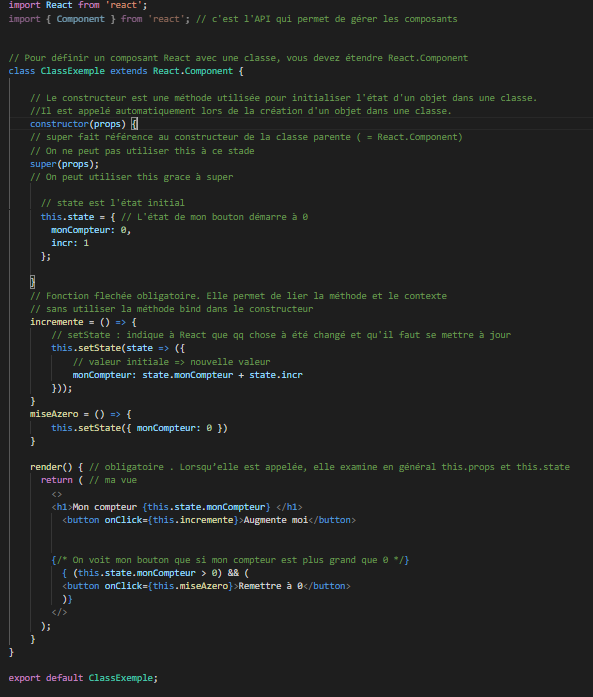
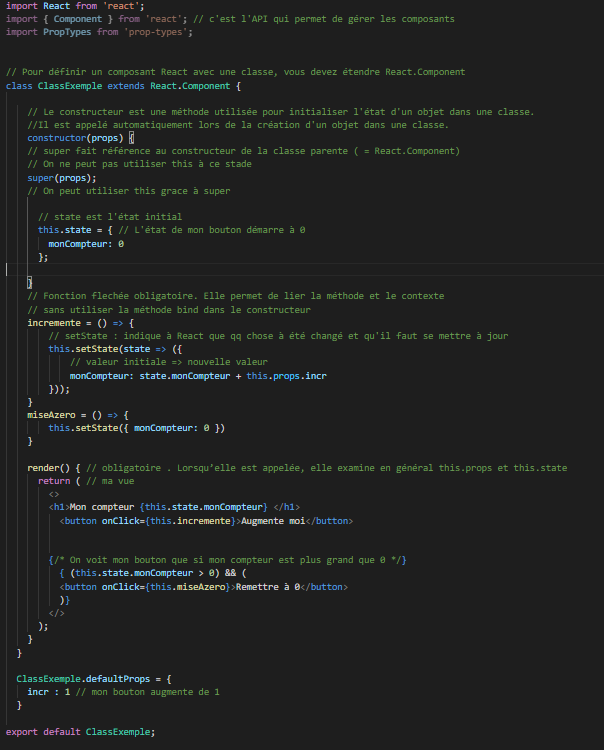
upgrade

diff --git a/09.Hook vs Class.md b/09.Hook vs Class.md
@@ -67,8 +67,7 @@ class ClassExemple extends React.Component {
 
       // state est l'état initial
       this.state = { // L'état de mon bouton démarre à 0
-        monCompteur: 0,
-        incr: 1
+        monCompteur: 0 
       };
 
     }
@@ -78,7 +77,7 @@ class ClassExemple extends React.Component {
         // setState : indique à React que qq chose à été changé et qu'il faut se mettre à jour
         this.setState(state => ({
             // valeur initiale => nouvelle valeur
-            monCompteur: state.monCompteur + state.incr
+            monCompteur: state.monCompteur + this.props.incr
         }));
     }
     miseAzero = () => {
@@ -99,7 +98,11 @@ class ClassExemple extends React.Component {
         </>
       );
     }
-}
+  }
+
+  ClassExemple.defaultProps = {
+    incr : 1 // mon bouton augmente de 1
+  }
 
 export default ClassExemple;
 

diff --git a/10.formulaire.md b/10.formulaire.md
@@ -1,0 +1,34 @@
+# Formulaire version Hook / version Class
+
+```jsx
+import { useState } from "react";
+
+
+const Formulaire = () => {
+
+    const [ msg , envoyerMsg ] = useState("");
+
+    const gererEnvoi = e => {
+        e.preventDefault();
+        console.log(msg);
+    }
+
+    return (
+        <>     
+        <form onSubmit={gererEnvoi}>
+            <label>
+                Entrer un message :
+                {/* OnChange = dès qu'il y a un chamngement de valeur (on commence à écrire) */}
+                <input type="text" name="nom" onChange={ e => envoyerMsg(e.target.value)} />
+            </label>
+            {/* Mon bouton envoyer */}
+            <input type="submit" value="Envoyer" />
+        </form>
+
+        <p id="resultat"></p>
+        </>
+    )
+}
+
+export default Formulaire;
+```
